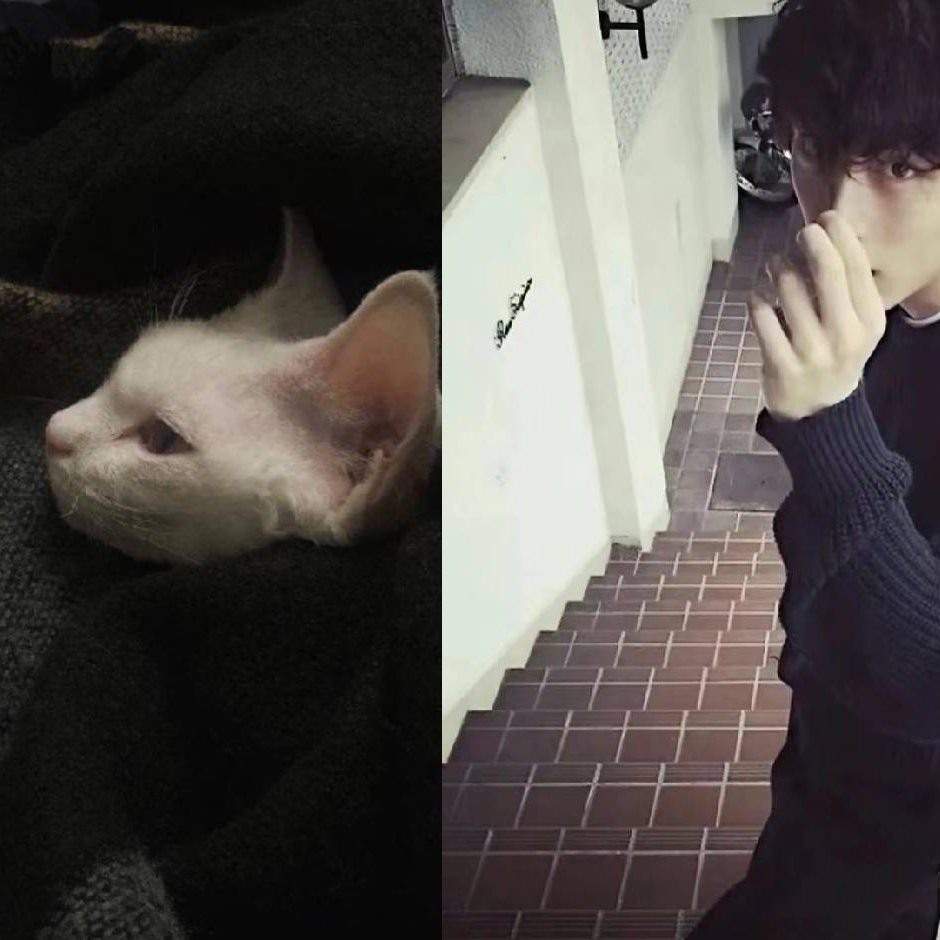
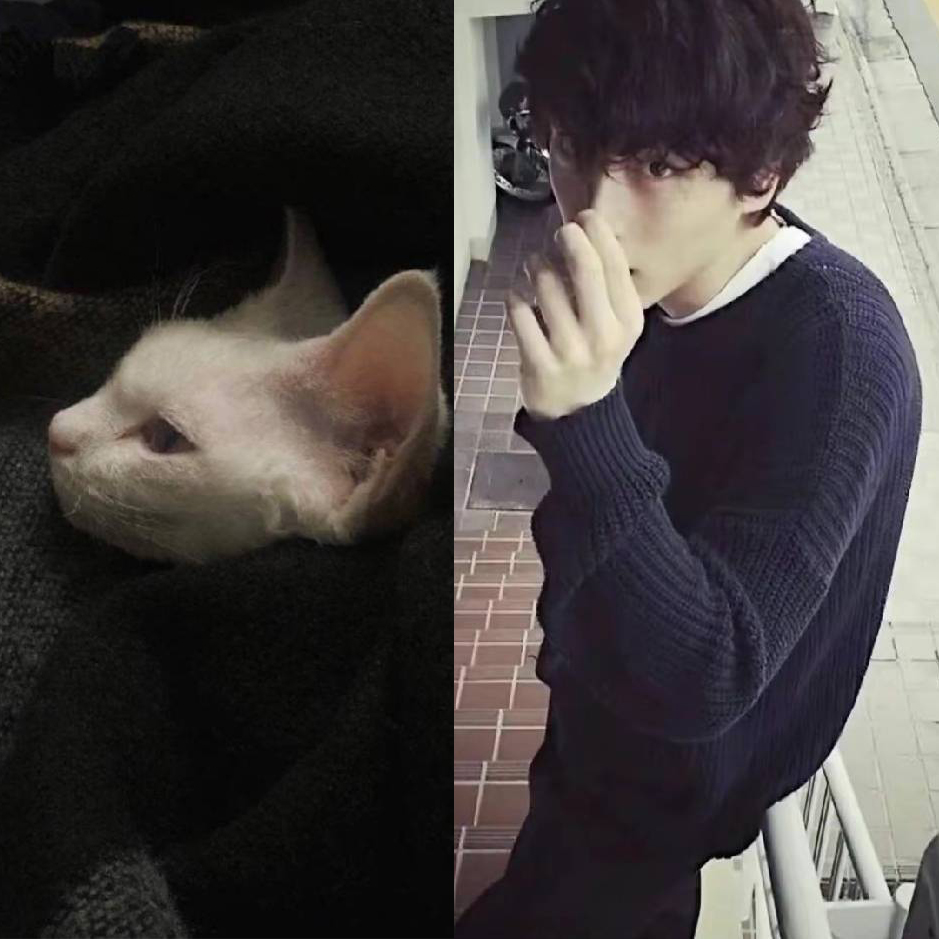
Site updated: 2024-07-23 22:35:40

diff --git a/Random/index.html b/Random/index.html
@@ -23,8 +23,8 @@
 			<div class="content"><!-- 内容开始 -->
 				<section class="home-me-section active-section"><!-- 首页开始 -->
 					<div class="main"><!-- 首页内容 -->
-						<img src="img/bgo.jpg" class="bgo" />
-						<img src="img/bgq.jpg" class="ato" onclick="alert('戳我干嘛 ￣へ￣')" />
+						<img src="https://telegraph-image-ds7.pages.dev/file/6b7315acecaeffbe6cdff.jpg" class="bgo" />
+						<img src="https://telegraph-image-ds7.pages.dev/file/54cddb6facb29a59907d8.jpg" class="ato" onclick="alert('戳我干嘛 ￣へ￣')" />
 						<div class="name" onclick="javascript:this.innerHTML=(this.innerHTML=='清新三中摄影社'?'ColaYun':'清新三中摄影社');">清新三中摄影社</div>
 						<div class="motto" onclick="javascript:this.innerHTML=(this.innerHTML=='Coffee & Xuan'?'Be in awe and stop':'心存敬畏 行有所止');">心存敬畏 行有所止</div>
 						<div class="navo">
@@ -41,8 +41,8 @@
 					</section><!-- 首页结束 -->
 				<section class="about-exp-section"><!-- 关于开始 -->
 					<div class="main"><!-- 关于内容 -->
-						<img src="img/bgt.jpg" class="bgt" />
-						<img src="img/bgq.jpg" class="ats" />
+						<img src="https://telegraph-image-ds7.pages.dev/file/89e4135e9adbeaf6e2f7d.jpg" class="bgt" />
+						<img src="https://telegraph-image-ds7.pages.dev/file/54cddb6facb29a59907d8.jpg" class="ats" />
 						<div class="about">
 							<p>>摄影-后期剪辑-后期调色……
 							<br>>无人机，相机，云台.........
@@ -59,8 +59,8 @@
 					</section><!-- 关于结束 -->
 				<section class="course-exp-section"><!-- 历程开始 -->
 					<div class="main"><!-- 历程内容 -->
-						<img src="img/bgt.jpg" class="bgt" />
-						<img src="img/bgq.jpg" class="ats" />
+						<img src="https://telegraph-image-ds7.pages.dev/file/89e4135e9adbeaf6e2f7d.jpg" class="bgt" />
+						<img src="https://telegraph-image-ds7.pages.dev/file/54cddb6facb29a59907d8.jpg" class="ats" />
 						<div class="box">
 							<div id="boxs">
 								<div class="track-list"><!-- 时间轴开始 -->
@@ -82,11 +82,11 @@
 
 				<section class="website-exp-section"><!-- 站点开始 -->
 					<div class="main"><!-- 站点内容开始 -->
-						<img src="img/bgt.jpg" class="bgt" />
-						<img src="img/bgq.jpg" class="ats" />
+						<img src="https://telegraph-image-ds7.pages.dev/file/89e4135e9adbeaf6e2f7d.jpg" class="bgt" />
+						<img src="https://telegraph-image-ds7.pages.dev/file/54cddb6facb29a59907d8.jpg" class="ats" />
 							<div class="box">
 							<div id="boxs">
-						<a href="img/welcome.jpg" target="_blank"><div class="web">加入我们
+						<a href="https://telegraph-image-ds7.pages.dev/file/71d2b904216f051ae74c8.jpg" target="_blank"><div class="web">加入我们
 </div></a>
 						
 						<div class="web" onclick="alert('敬请期待')">敬请期待</div>
@@ -97,7 +97,8 @@
 			</div><!-- 主体结束 -->
 		<div class="footer"><!-- 底部版权 -->
 		<span id="sitetime"></span><!-- 运行时间 -->
-        <a href="//beian.miit.gov.cn/" target="_blank"><div class="web"><img src="./img/beian.png" style="height: 1em;">welcome  </div></a><!-- 备案号 -->
+        <a href="备案
+" target="_blank"><div class="web"><img src="" style="height: 1em;">↑</div></a><!-- 备案号 -->
         </div><!-- 版权结束 -->
 		<div id="tp-weather-widget"></div><!-- 天气插件 -->
 		<script>
@@ -116,7 +117,7 @@
 		</script><!-- 天气插件结束 -->
 		<script src="./js/index.js"></script><!-- 核心插件 -->
 		<script src="./js/all.js"></script><!-- 图标库 -->
-		<script src="./js/Sitetime.js"></script><!-- 运行时间 -->
+		<!-- <script src="./js/Sitetime.js"></script><!-- 运行时间 --> -->
 		<script src="./js/Mouse.js"></script><!-- 点击烟花特效 -->
 		
 	</body>
